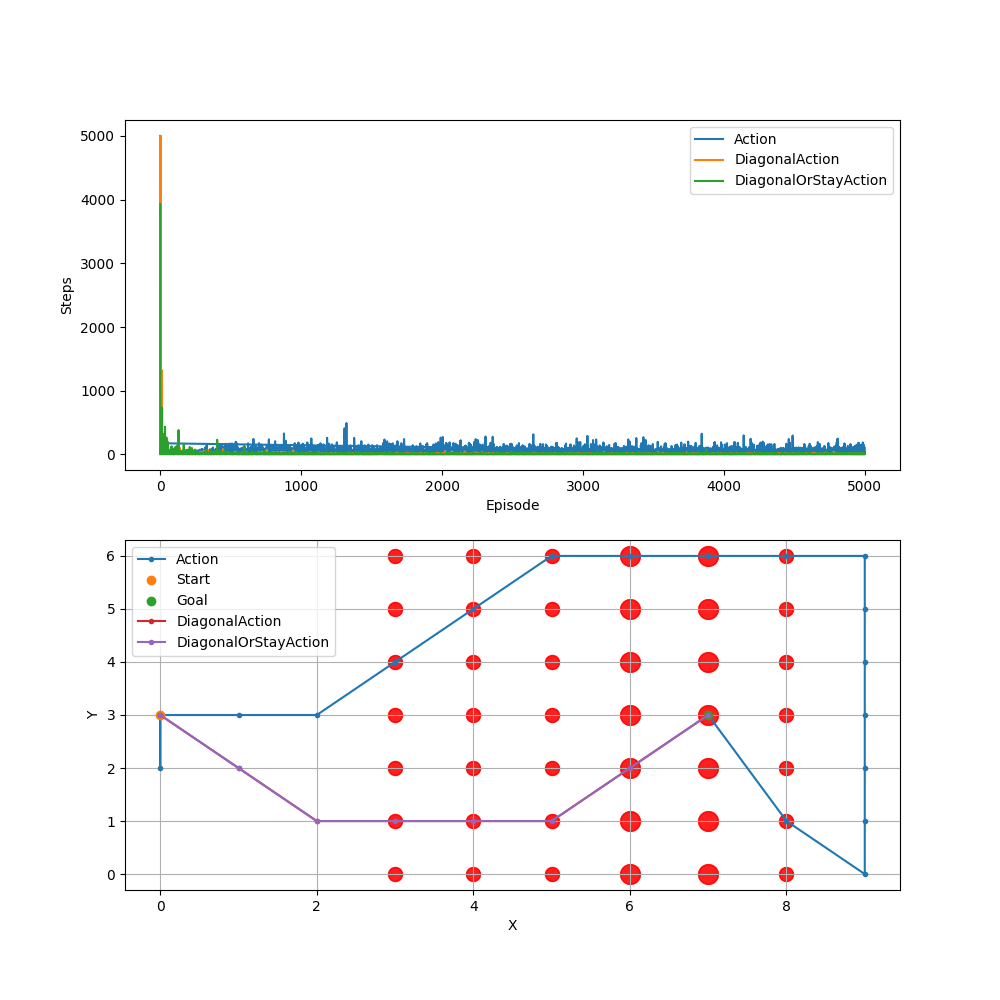
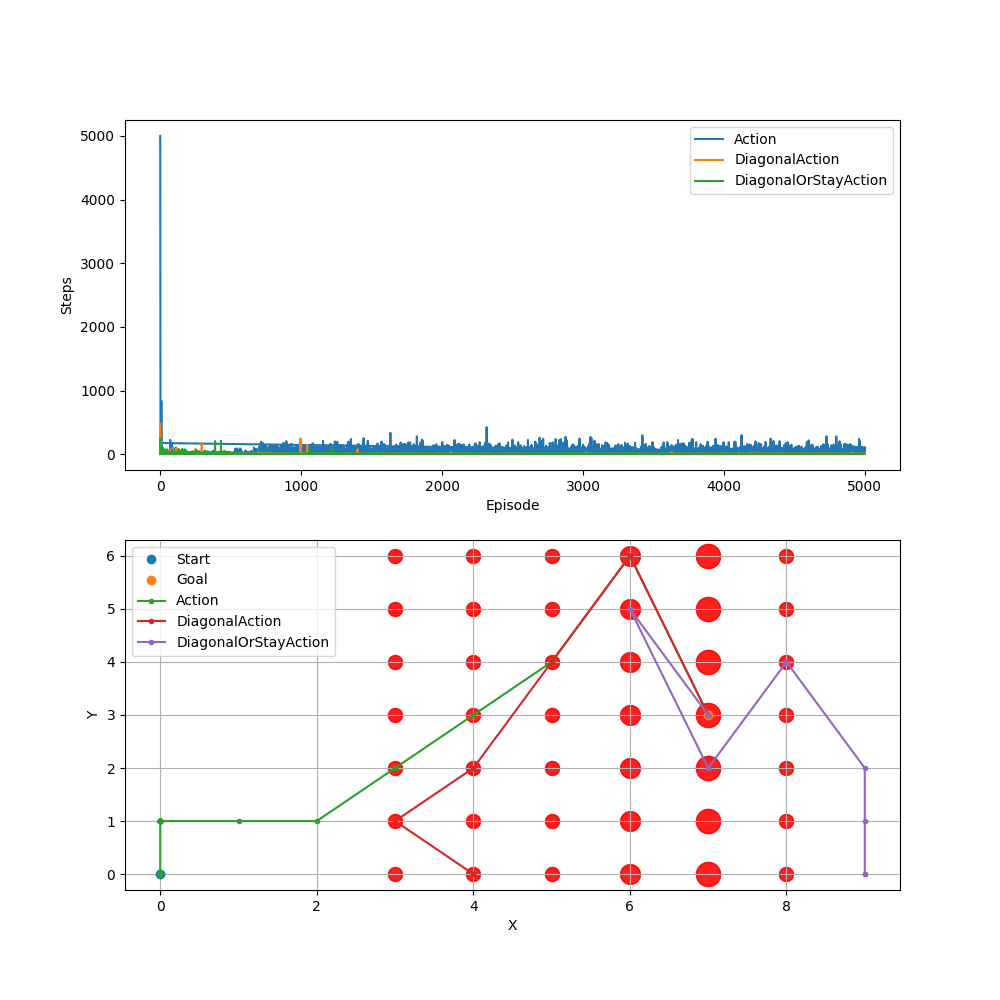
more test cases

diff --git a/windy-gridworld.py b/windy-gridworld.py
@@ -203,9 +203,11 @@ class Agent:
         self.trajectory += [(self.state, self.action.__name__)]
         logging.debug(f"New state is {self.state} and action is {self.action.__name__}")
 
-    def run(self, environment, goal, episodes, steps, epsilon=None):
+    def run(self, environment, goal, episodes, steps, epsilon=None, start=None):
         if epsilon is not None:
             self.epsilon = epsilon
+        if start is not None:
+            self.start = start
 
         for episode in range(episodes):
             logging.debug(f"Running episode {episode}")
@@ -285,20 +287,29 @@ if __name__ == "__main__":
 
     figure = plt.figure(figsize=(10, 10))
 
+    # 4 actions
     agent = Agent(epsilon, alpha, gamma, start, Action)
     agent.run(environment, goal, episodes, steps)
-    agent.run(environment, goal, 1, steps, epsilon=0.01)
+
+    [environment.register_wind(State(7, y), Action.down, 3) for y in range(7)]
+    agent.run(environment, goal, 1, steps, epsilon=0.01, start=State(0, 0))
     agent.plot(environment, figure, start, goal)
     print(agent)
 
+    # 8 actions
     agent = Agent(epsilon, alpha, gamma, start, DiagonalAction)
     agent.run(environment, goal, episodes, steps)
-    agent.run(environment, goal, 1, steps, epsilon=0.00)
+
+    [environment.register_wind(State(7, y), Action.down, 3) for y in range(7)]
+    agent.run(environment, goal, 1, steps, epsilon=0.01, start=State(4, 0))
     agent.plot(environment, figure)
     print(agent)
 
+    # 9 actions
     agent = Agent(epsilon, alpha, gamma, start, DiagonalOrStayAction)
     agent.run(environment, goal, episodes, steps)
-    agent.run(environment, goal, 1, steps, epsilon=0.00)
+
+    [environment.register_wind(State(7, y), Action.down, 3) for y in range(7)]
+    agent.run(environment, goal, 1, steps, epsilon=0.01, start=State(9, 0))
     agent.plot(environment, figure)
     print(agent)
